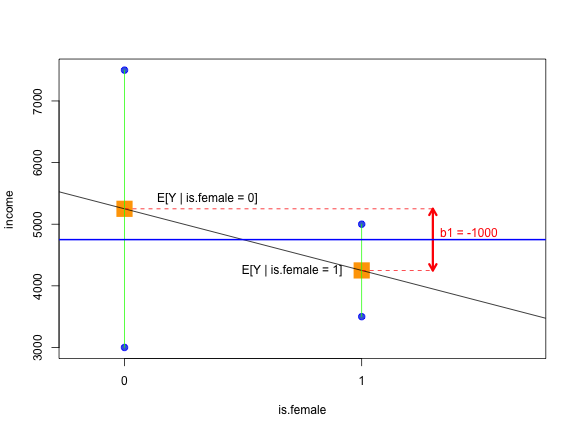
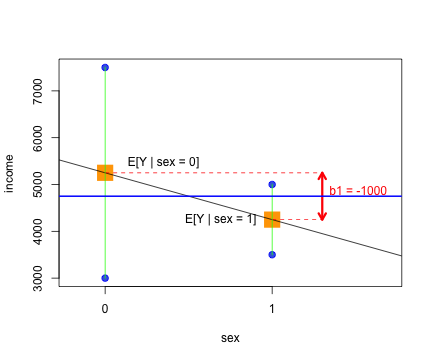
Update class 3

Changed region(s): [[0.0, 0.1222, 0.963, 0.8861], [0.4815, 0.9167, 0.5718, 0.9778]]

diff --git a/files/class3/cours/Cours3.html b/files/class3/cours/Cours3.html
@@ -3,7 +3,7 @@
   <head>
     <title>Class 3: linear model and logistic regression</title>
     <meta charset="utf-8" />
-    <meta name="author" content="Julie Josse, Gaël Varoquaux, and Bénédicte Colnet" />
+    <meta name="author" content="Bénédicte Colnet" />
     <script src="Cours3_files/header-attrs-2.6/header-attrs.js"></script>
     <link href="Cours3_files/remark-css-0.0.1/default.css" rel="stylesheet" />
     <link href="Cours3_files/remark-css-0.0.1/metropolis.css" rel="stylesheet" />
@@ -14,7 +14,7 @@
 class: center, middle, inverse, title-slide
 
 # Class 3: linear model and logistic regression
-### Julie Josse, Gaël Varoquaux, and Bénédicte Colnet
+### Bénédicte Colnet
 ### Lundi 8 Février 2021
 
 ---
@@ -39,7 +39,7 @@ class: center, middle, inverse, title-slide
 
 Introduction to regression model: simple linear regression to Ordinary Least Squares estimation &amp; logistic regression
   
- The program will be first to introduce the theory and applications in class (~1h) 🎓 and then practice (~1h) 👷.
+ The program will be first to introduce the theory and applications in class (~1h) 🎓 and then practice (~1h) 👷♀.
  
 ---
 # Why regression?
@@ -115,7 +115,7 @@ Suppose that `\(Y\)` and `\(X\)` have the following relationship
 
 `$$Y=\beta_{0}+\beta_{1} X+\varepsilon$$`
 
-with `\(\varepsilon\)` a noise ( `\(\mathbb{E}[ \varepsilon ] = 0\)` and `\(\mathbb{V}[\varepsilon] = \sigma^2\)`)), and `\(\beta_0\)` and `\(\beta_1\)` unknown parameters.
+with `\(\varepsilon\)` a noise ( `\(\mathbb{E}[\varepsilon] = 0\)` and `\(\mathbb{V}[\varepsilon] = \sigma^2\)`)), and `\(\beta_0\)` and `\(\beta_1\)` unknown parameters.
 
 --
 
@@ -221,7 +221,7 @@ In linear regression we usually see a `\(R^2\)` reported. What does it mean?
 
 --
 
-`$$\mathrm{R}^{2}=\frac{\|\hat{Y}\|^{2}}{\|Y\|^{2}}=\cos ^{2} \theta_{0}$$`
+`$$\mathrm{R}^{2}=\frac{\|\hat{Y} - \bar{Y}\|^{2}}{\|Y - \bar{Y}\|^{2}}=\cos ^{2} \theta_{0}$$`
 
 with `\(\hat{Y}\)` the prediction, and `\(Y\)` the *truth*. 
 *"Which part of the `\(Y\)` can be explained with the linear model?"*
@@ -384,7 +384,7 @@ This time we suppose the following relationship for the observed data:
 
 `$$y_{i}=\beta_{0}+\beta_{1} x_{i 1}+\beta_{2} x_{i 2}+\cdots+\beta_{p} x_{i p}+\varepsilon_{i}, \quad i=1, \cdots, n$$`
 
-with `\(\varepsilon\)` a noise ( $\mathbb{E}[ \varepsilon ] = 0 $ and `\(\mathbb{V}[\varepsilon] = \sigma^2\)`)), and `\(\beta_0\)`, ...,  `\(\beta_p\)` unknown parameters.
+with `\(\varepsilon\)` a noise, `\(\mathbb{E}[\varepsilon]=0\)` and `\(\mathbb{V}[\varepsilon] = \sigma^2\)`, and `\(\beta_0\)`, ...,  `\(\beta_p\)` unknown parameters.
 
 
 
@@ -561,7 +561,7 @@ plot(choice, scale="bic")
 You can launch the final regression with `reg.final &lt;- lm(maxO3~T12+Ne9+Vx9+maxO3v, data= ozone.m)`.
 
 --
-You can also use `RegBest` to select the model.
+You can also use `RegBest` in `FactoMineR` to select the model that uses `\(R^2\)` on groups with same number of variables.
 
 ---
 # Qualitative or categorical variable
@@ -586,17 +586,17 @@ Usually the trick is to transform this in a dummy variable ( `\(1\)` or `\(0\)` 
 
 
 ```r
-lm1 = lm(income ~ is.female, df1)
+lm1 = lm(income ~ sex, df1)
 lm1
 ```
 
 ```
 ## 
 ## Call:
-## lm(formula = income ~ is.female, data = df1)
+## lm(formula = income ~ sex, data = df1)
 ## 
 ## Coefficients:
-## (Intercept)    is.female  
+## (Intercept)          sex  
 ##        5250        -1000
 ```
 
@@ -608,6 +608,9 @@ The intercept `\(\beta_1\)` measures the difference in intercept from being a fe
 &lt;img src="Cours3_files/figure-html/unnamed-chunk-20-1.png" style="display: block; margin: auto;" /&gt;
 --
 Remember that using `lm()` with a qualitative variable is like doing a ANOVA or ANCOVA. See "Régression with R" to learn more.
+
+
+Crédits to Prof. Florian Oswald for this schematic.
 
 ---
 # And if `\(Y\)` is not continuous?
@@ -728,10 +731,9 @@ For the lab we will work with stock values and predict if the market is going up
 
 To professors and people sharing their class. Most of the content here comes from:
 
-- Prof. François Husson's book *R pour la statistique et la science des données* (`ozone` data analysis);
+- François Husson's book *R pour la statistique et la science des données* (in particular the `ozone` data analysis);
 
-- Prof. Florian Oswald for their econometrics class at SciencePo (`ScPoEconometrics` for illustrations and labs).
-
+- Florian Oswald for his econometrics class at SciencePo `ScPoEconometrics`.
 
 - Imke Mayer and Erwan Scornet for sharing to me their slides and lab;
 
@@ -739,7 +741,9 @@ To professors and people sharing their class. Most of the content here comes fro
 
 --
 
-If you want to dig into the theory you can read the book *Régression avec R* from Eric Matzner-Lober and Pierre-André Cornillon. You can also watch the Youtube series of Trevor Hastie and Robert Tishirani.
+If you want to dig into the theory you can read the book *Régression avec R* from Eric Matzner-Lober and Pierre-André Cornillon. 
+
+You can also watch the Youtube series of Trevor Hastie and Robert Tishirani.
 
 
 
